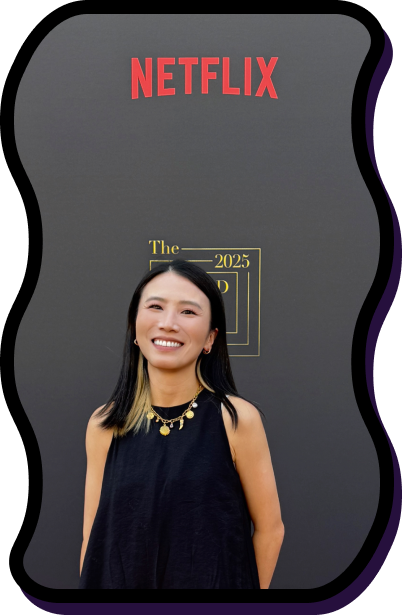
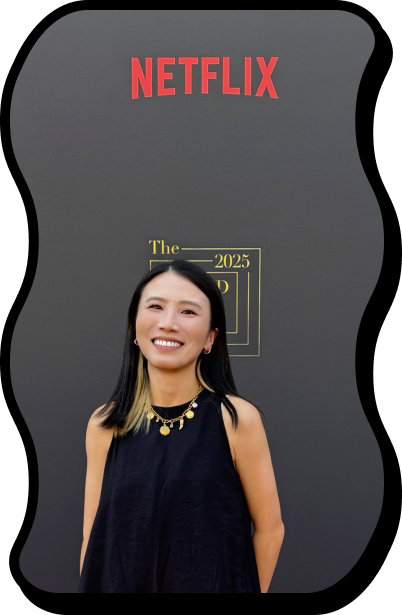
Tune typography, fix project description gap, refresh netflix image
- Bump intro hero title to 88px and outro text to 56px on screens ≥1024px
  for stronger desktop presence; widen content max from 1080 → 1200px.
- Wrap multi-paragraph project descriptions in a flex column container so
  paragraphs stack with consistent 16px spacing instead of inheriting the
  grid row gap (was creating a ~50px gap on Samsung HearWise and Graph
  Management).
- Standardize project name at 36px across stacked breakpoints; bump small-
  phone size from 22 → 28px.
- Match pencil and pointer glyph line weight to the sun via text-stroke;
  scale the pointer's translate animation in em so it grows with the text.
- Replace netflix-1.png with refreshed asset.

diff --git a/index.html b/index.html
@@ -83,7 +83,7 @@
         <video src="images/figma-confiig-announcement.mp4" class="project-screenshot" loop muted playsinline></video>
         <div class="project-info">
           <div class="project-meta">
-            <h2 class="project-name">2024 Figma Config Announcement Modal</h2>
+            <h2 class="project-name">2024 Config Announcement Modal</h2>
             <span class="project-time">Figma, 2024</span>
           </div>
           <p class="project-description">Designed and launched the feature announcement modal for Figma Config 2024, redefining how new features are introduced through an interactive, in-product format. Increased feature visibility and engagement, and set a new pattern that influenced modal design across the industry.</p>
@@ -141,10 +141,10 @@
             <h2 class="project-name">Graph Management</h2>
             <span class="project-time">Instagram, 2020</span>
           </div>
-          <p class="project-description">Led Instagram’s Graph Management initiative to make it easier for users to curate their social graph by managing who they follow and who follows them. As the first social platform to actively encourage unfollowing and removing followers, we aimed to foster more authentic relationships — ultimately increasing users’ likelihood to share and engage.
-
-          </p>
-          <p class="project-description">The work was featured in <a href="https://www.theverge.com/2020/2/6/21126641/instagram-new-feature-following-accounts-most-shown-in-feed-least-interacted" target="_blank">The Verge ↗</a>, <a href="https://techcrunch.com/2020/02/06/instagram-least-interacted-with/" target="_blank">TechCrunch ↗</a>, etc.</p>
+          <div class="project-descriptions">
+            <p class="project-description">Led Instagram’s Graph Management initiative to make it easier for users to curate their social graph by managing who they follow and who follows them. As the first social platform to actively encourage unfollowing and removing followers, we aimed to foster more authentic relationships — ultimately increasing users’ likelihood to share and engage.</p>
+            <p class="project-description">The work was featured in <a href="https://www.theverge.com/2020/2/6/21126641/instagram-new-feature-following-accounts-most-shown-in-feed-least-interacted" target="_blank">The Verge ↗</a>, <a href="https://techcrunch.com/2020/02/06/instagram-least-interacted-with/" target="_blank">TechCrunch ↗</a>, etc.</p>
+          </div>
         </div>
       </article>
 
@@ -177,10 +177,10 @@
             <h2 class="project-name">Samsung HearWise</h2>
             <span class="project-time">Samsung, 2018</span>
           </div>
-          <p class="project-description">Designed and launched Samsung's first award-winning B2B healthcare service solution, Samsung HeartWise, to make cardiac rehab more affordable and scalable.
-
-          </p>
-          <p class="project-description">Won the <a href="https://www.red-dot.org/project/samsung-heartwise-26008" target="_blank">Red Dot Design Award</a> in 2018. Featured in <a href="https://www.wsj.com/articles/kaiser-permanente-bets-on-smartwatches-to-lower-costs-11578565801" target="_blank">WSJ</a>.</p>
+          <div class="project-descriptions">
+            <p class="project-description">Designed and launched Samsung's first award-winning B2B healthcare service solution, Samsung HeartWise, to make cardiac rehab more affordable and scalable.</p>
+            <p class="project-description">Won the <a href="https://www.red-dot.org/project/samsung-heartwise-26008" target="_blank">Red Dot Design Award</a> in 2018. Featured in <a href="https://www.wsj.com/articles/kaiser-permanente-bets-on-smartwatches-to-lower-costs-11578565801" target="_blank">WSJ</a>.</p>
+          </div>
         </div>
       </article>
     </section>

diff --git a/styles.css b/styles.css
@@ -14,7 +14,7 @@
   --font-serif: 'Instrument Serif', Georgia, serif;
   --font-sans: 'Inter', system-ui, -apple-system, sans-serif;
 
-  --content-max: 1080px;
+  --content-max: 1280px;
   --content-padding: 48px;
 }
 
@@ -461,6 +461,7 @@ main {
   left: 50%;
   bottom: -0.2em;
   margin-left: -0.39em;
+  -webkit-text-stroke: 0.02em currentColor;
   animation: penDraw 5s ease-in-out 1.1s infinite;
 }
 
@@ -510,12 +511,13 @@ main {
 
 .glyph-pointer {
   display: inline-block;
+  -webkit-text-stroke: 0.01em currentColor;
   animation: point 1.8s ease-in-out infinite;
 }
 
 @keyframes point {
   0%, 100% { translate: 0; }
-  50% { translate: 4px; }
+  50% { translate: 0.06em; }
 }
 
 .hero-title em {
@@ -596,15 +598,16 @@ main {
 
 .project-info {
   display: grid;
-  grid-template-columns: 1fr 1.6fr;
-  gap: 24px;
+  grid-template-columns: 0.9fr 1.7fr;
+  gap: 32px;
   margin-top: 32px;
   align-items: start;
 }
 
-
-.project-info .project-description:nth-of-type(2) {
-  grid-column: 2;
+.project-descriptions {
+  display: flex;
+  flex-direction: column;
+  gap: 16px;
 }
 
 .project-meta {
@@ -682,6 +685,21 @@ main {
   to { opacity: 0; scale: 0; }
 }
 
+/* ---- Responsive: Desktop ---- */
+
+@media (min-width: 1024px) {
+  .intro .hero-title {
+    font-size: 88px;
+    line-height: 1.1;
+    letter-spacing: -0.025em;
+  }
+
+  .outro .hero-title,
+  .outro-body {
+    font-size: 56px;
+  }
+}
+
 /* ---- Responsive: Tablet ---- */
 
 @media (max-width: 1024px) {
@@ -696,16 +714,12 @@ main {
   }
 
   .project-name {
-    font-size: 28px;
+    font-size: 36px;
   }
 
   .project-info {
     grid-template-columns: 1fr;
     gap: 16px;
-  }
-
-  .project-info .project-description:nth-of-type(2) {
-    grid-column: 1;
   }
 }
 
@@ -736,7 +750,7 @@ main {
   }
 
   .project-name {
-    font-size: 28px;
+    font-size: 36px;
   }
 
   .project-description {
@@ -757,6 +771,6 @@ main {
   }
 
   .project-name {
-    font-size: 22px;
+    font-size: 28px;
   }
 }
